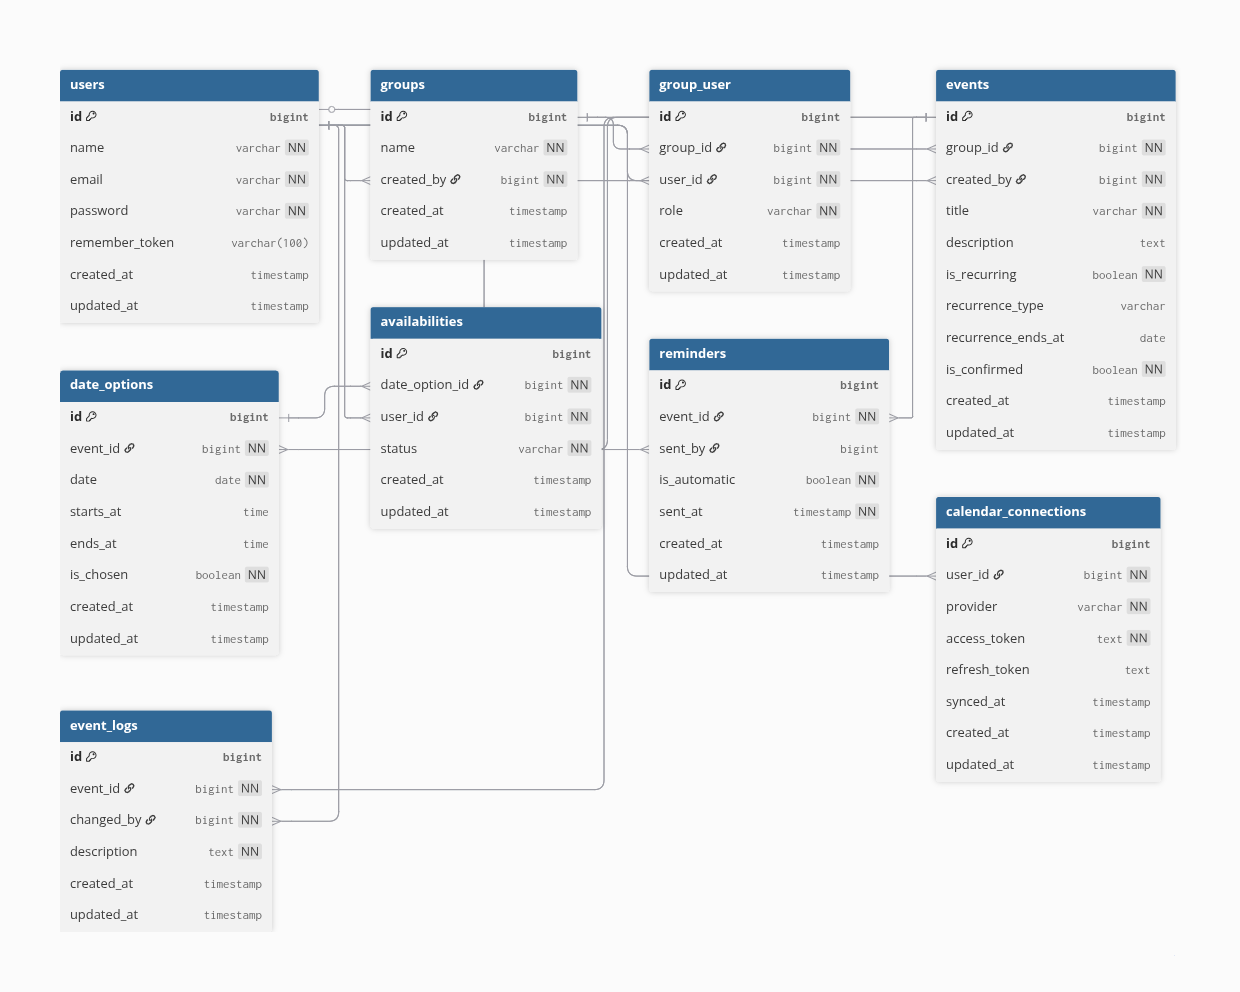
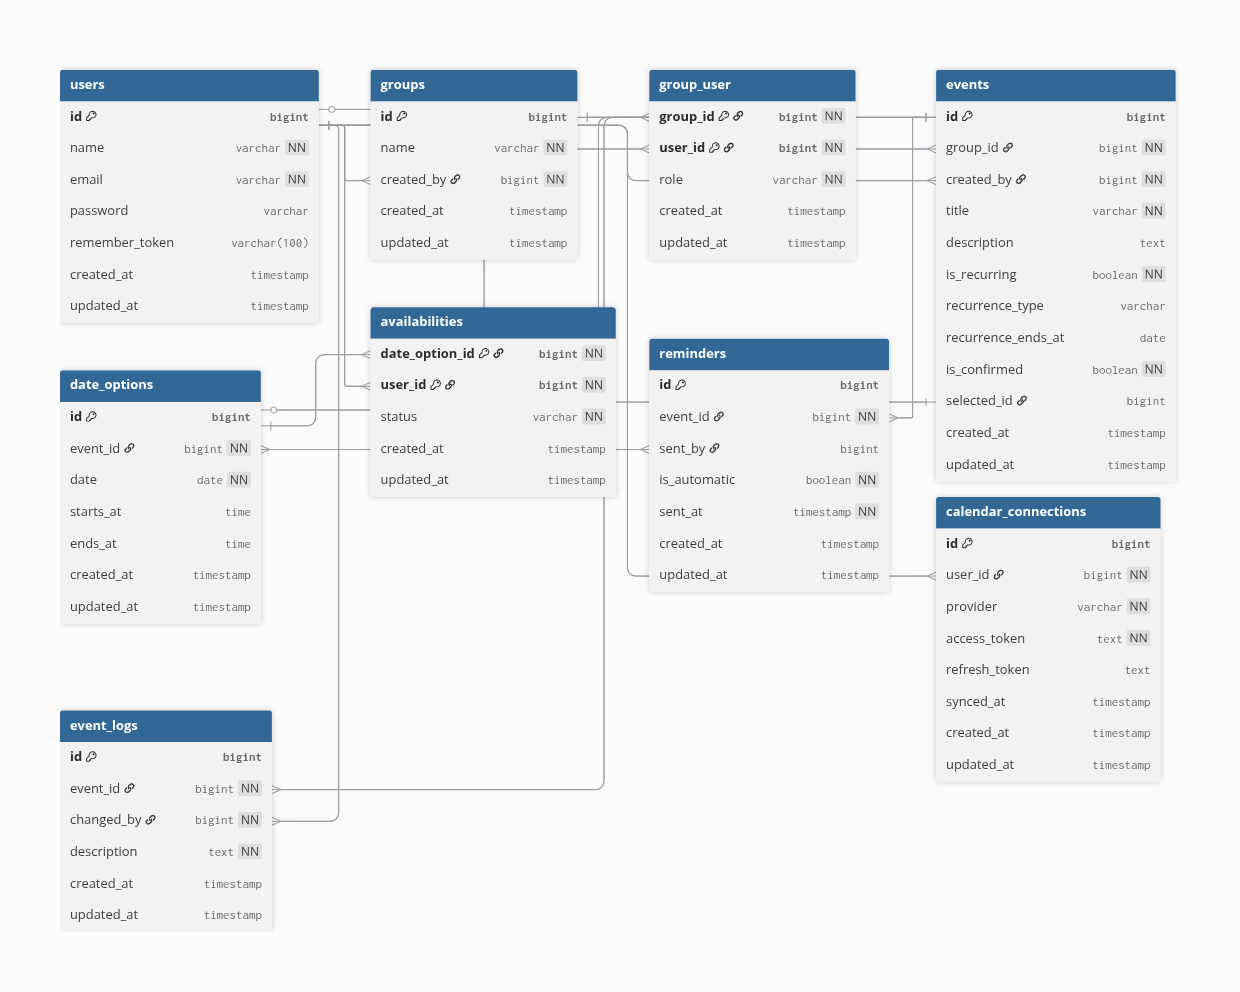
General - updated ERD and ran pint

diff --git a/tests/Pest.php b/tests/Pest.php
@@ -1,5 +1,6 @@
 <?php
 
+use Illuminate\Foundation\Testing\RefreshDatabase;
 use Tests\TestCase;
 
 /*
@@ -14,7 +15,7 @@ use Tests\TestCase;
 */
 
 pest()->extend(TestCase::class)
-    ->use(Illuminate\Foundation\Testing\RefreshDatabase::class)
+    ->use(RefreshDatabase::class)
     ->in('Feature');
 
 /*
